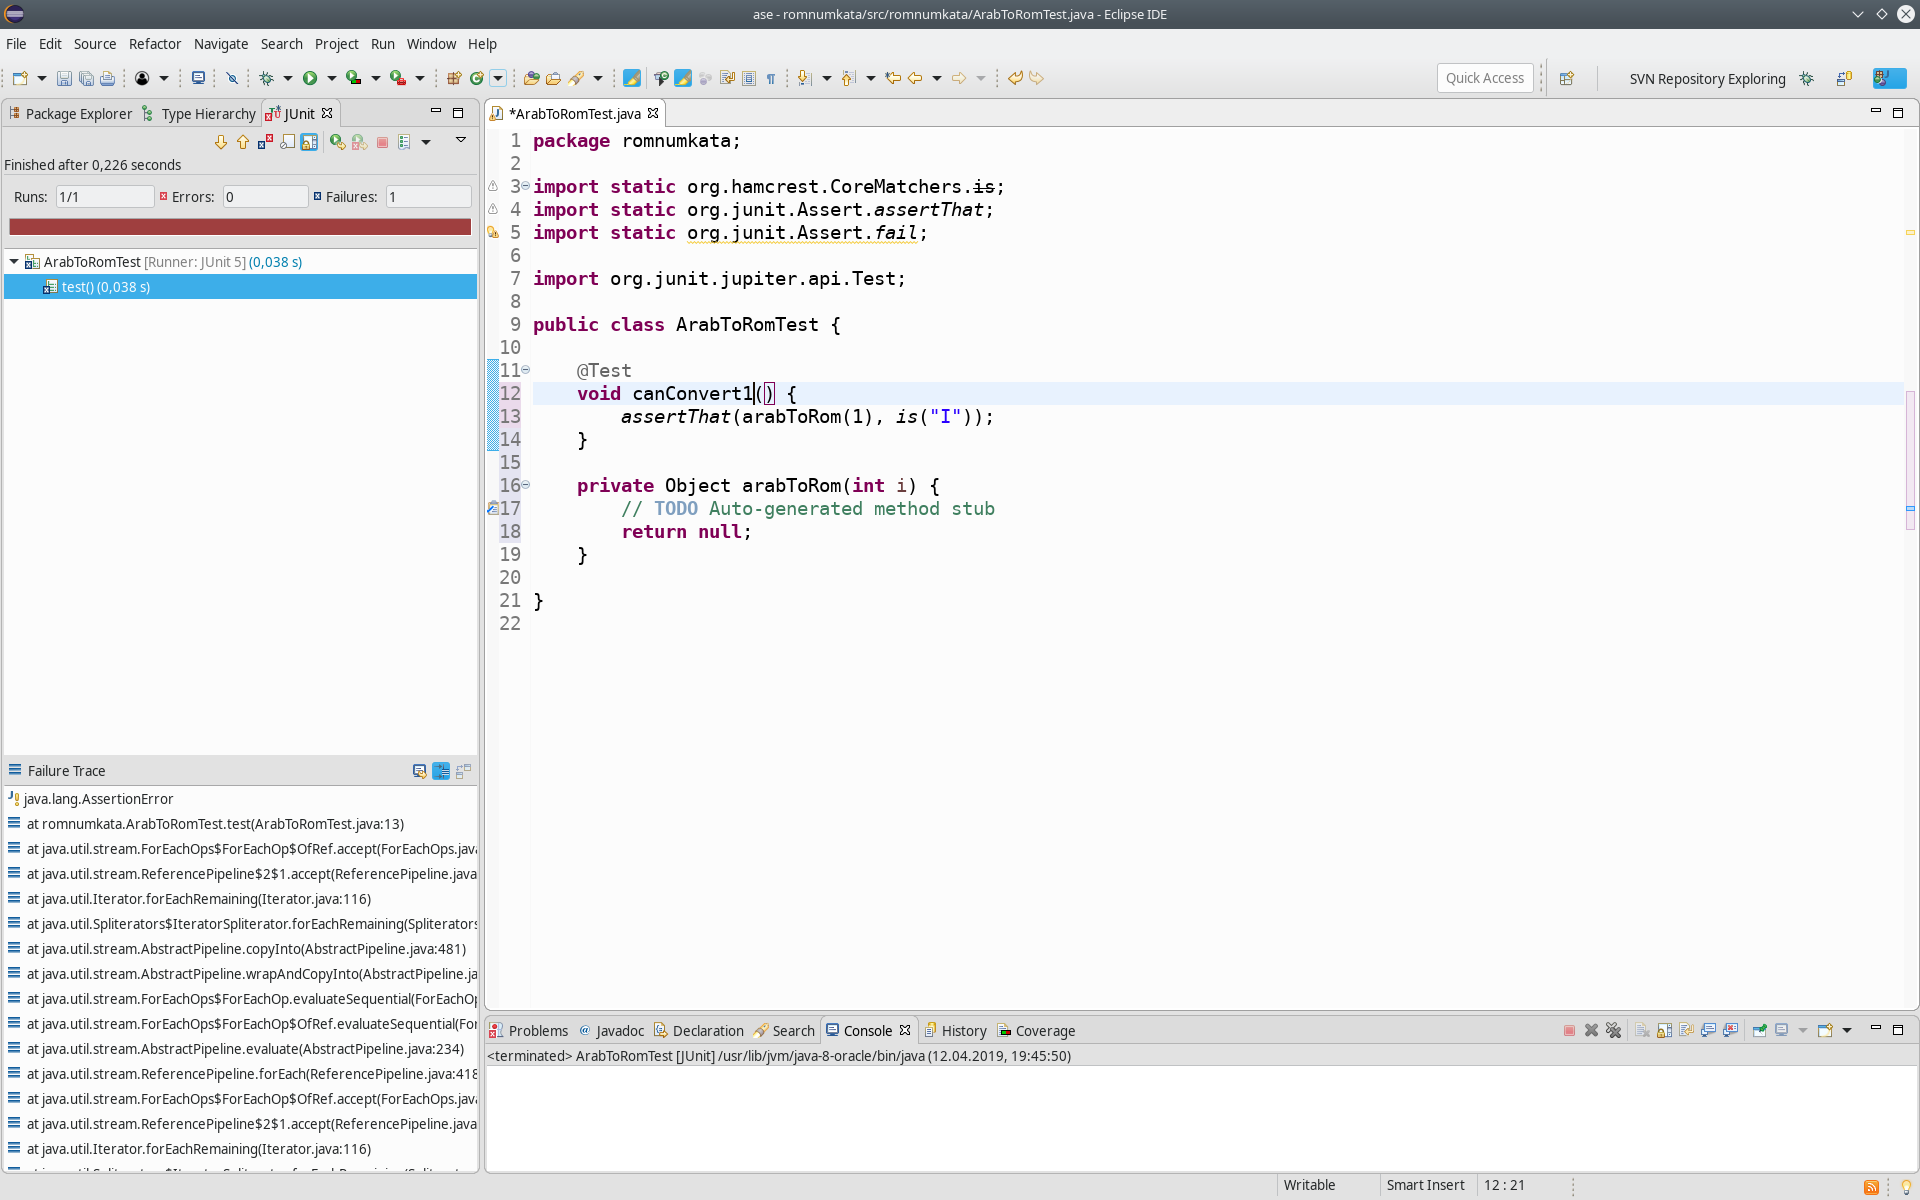
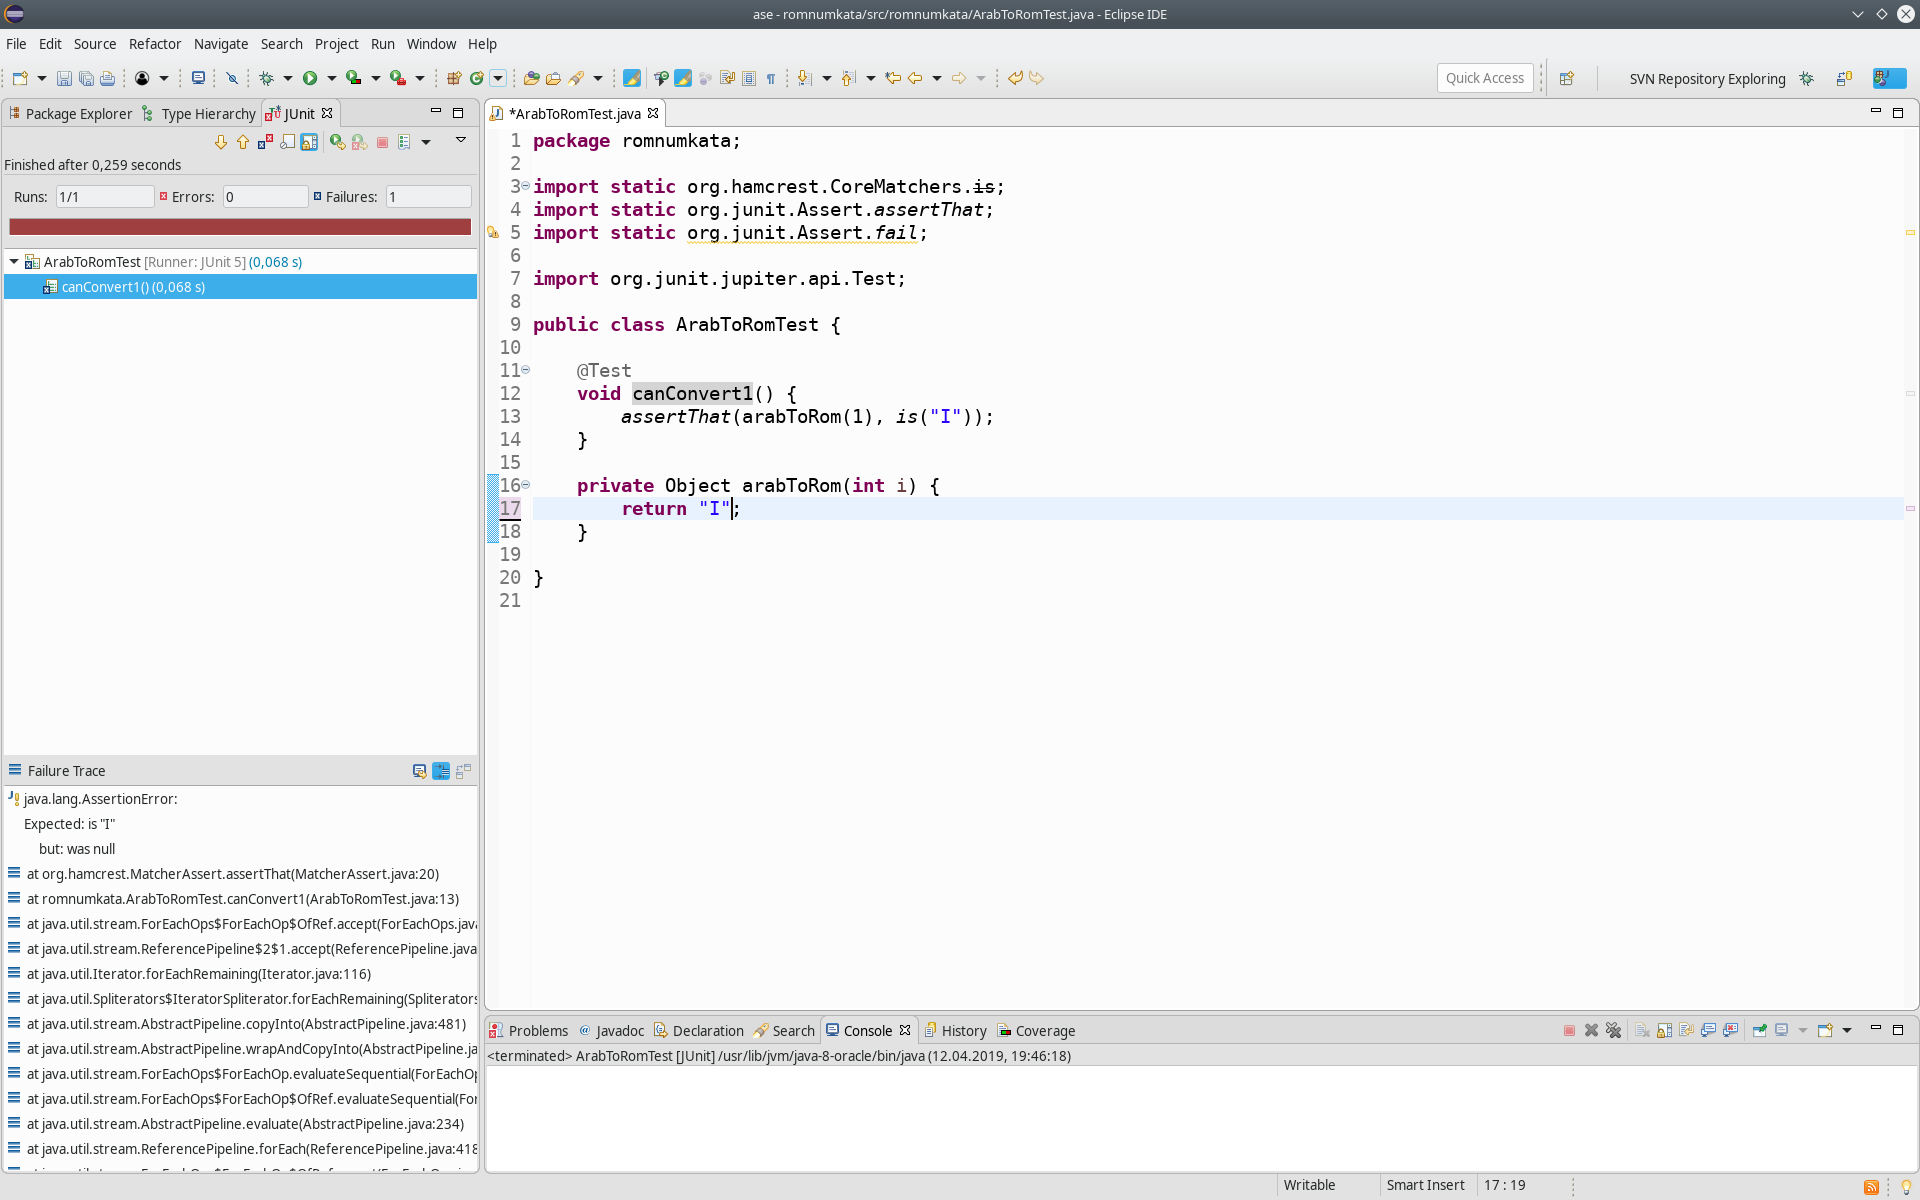
autocommit on change

diff --git a/src/romnumkata/ArabToRomTest.java b/src/romnumkata/ArabToRomTest.java
@@ -14,8 +14,7 @@ public class ArabToRomTest {
 	}
 
 	private Object arabToRom(int i) {
-		// TODO Auto-generated method stub
-		return null;
+		return "I";
 	}
 
 }
